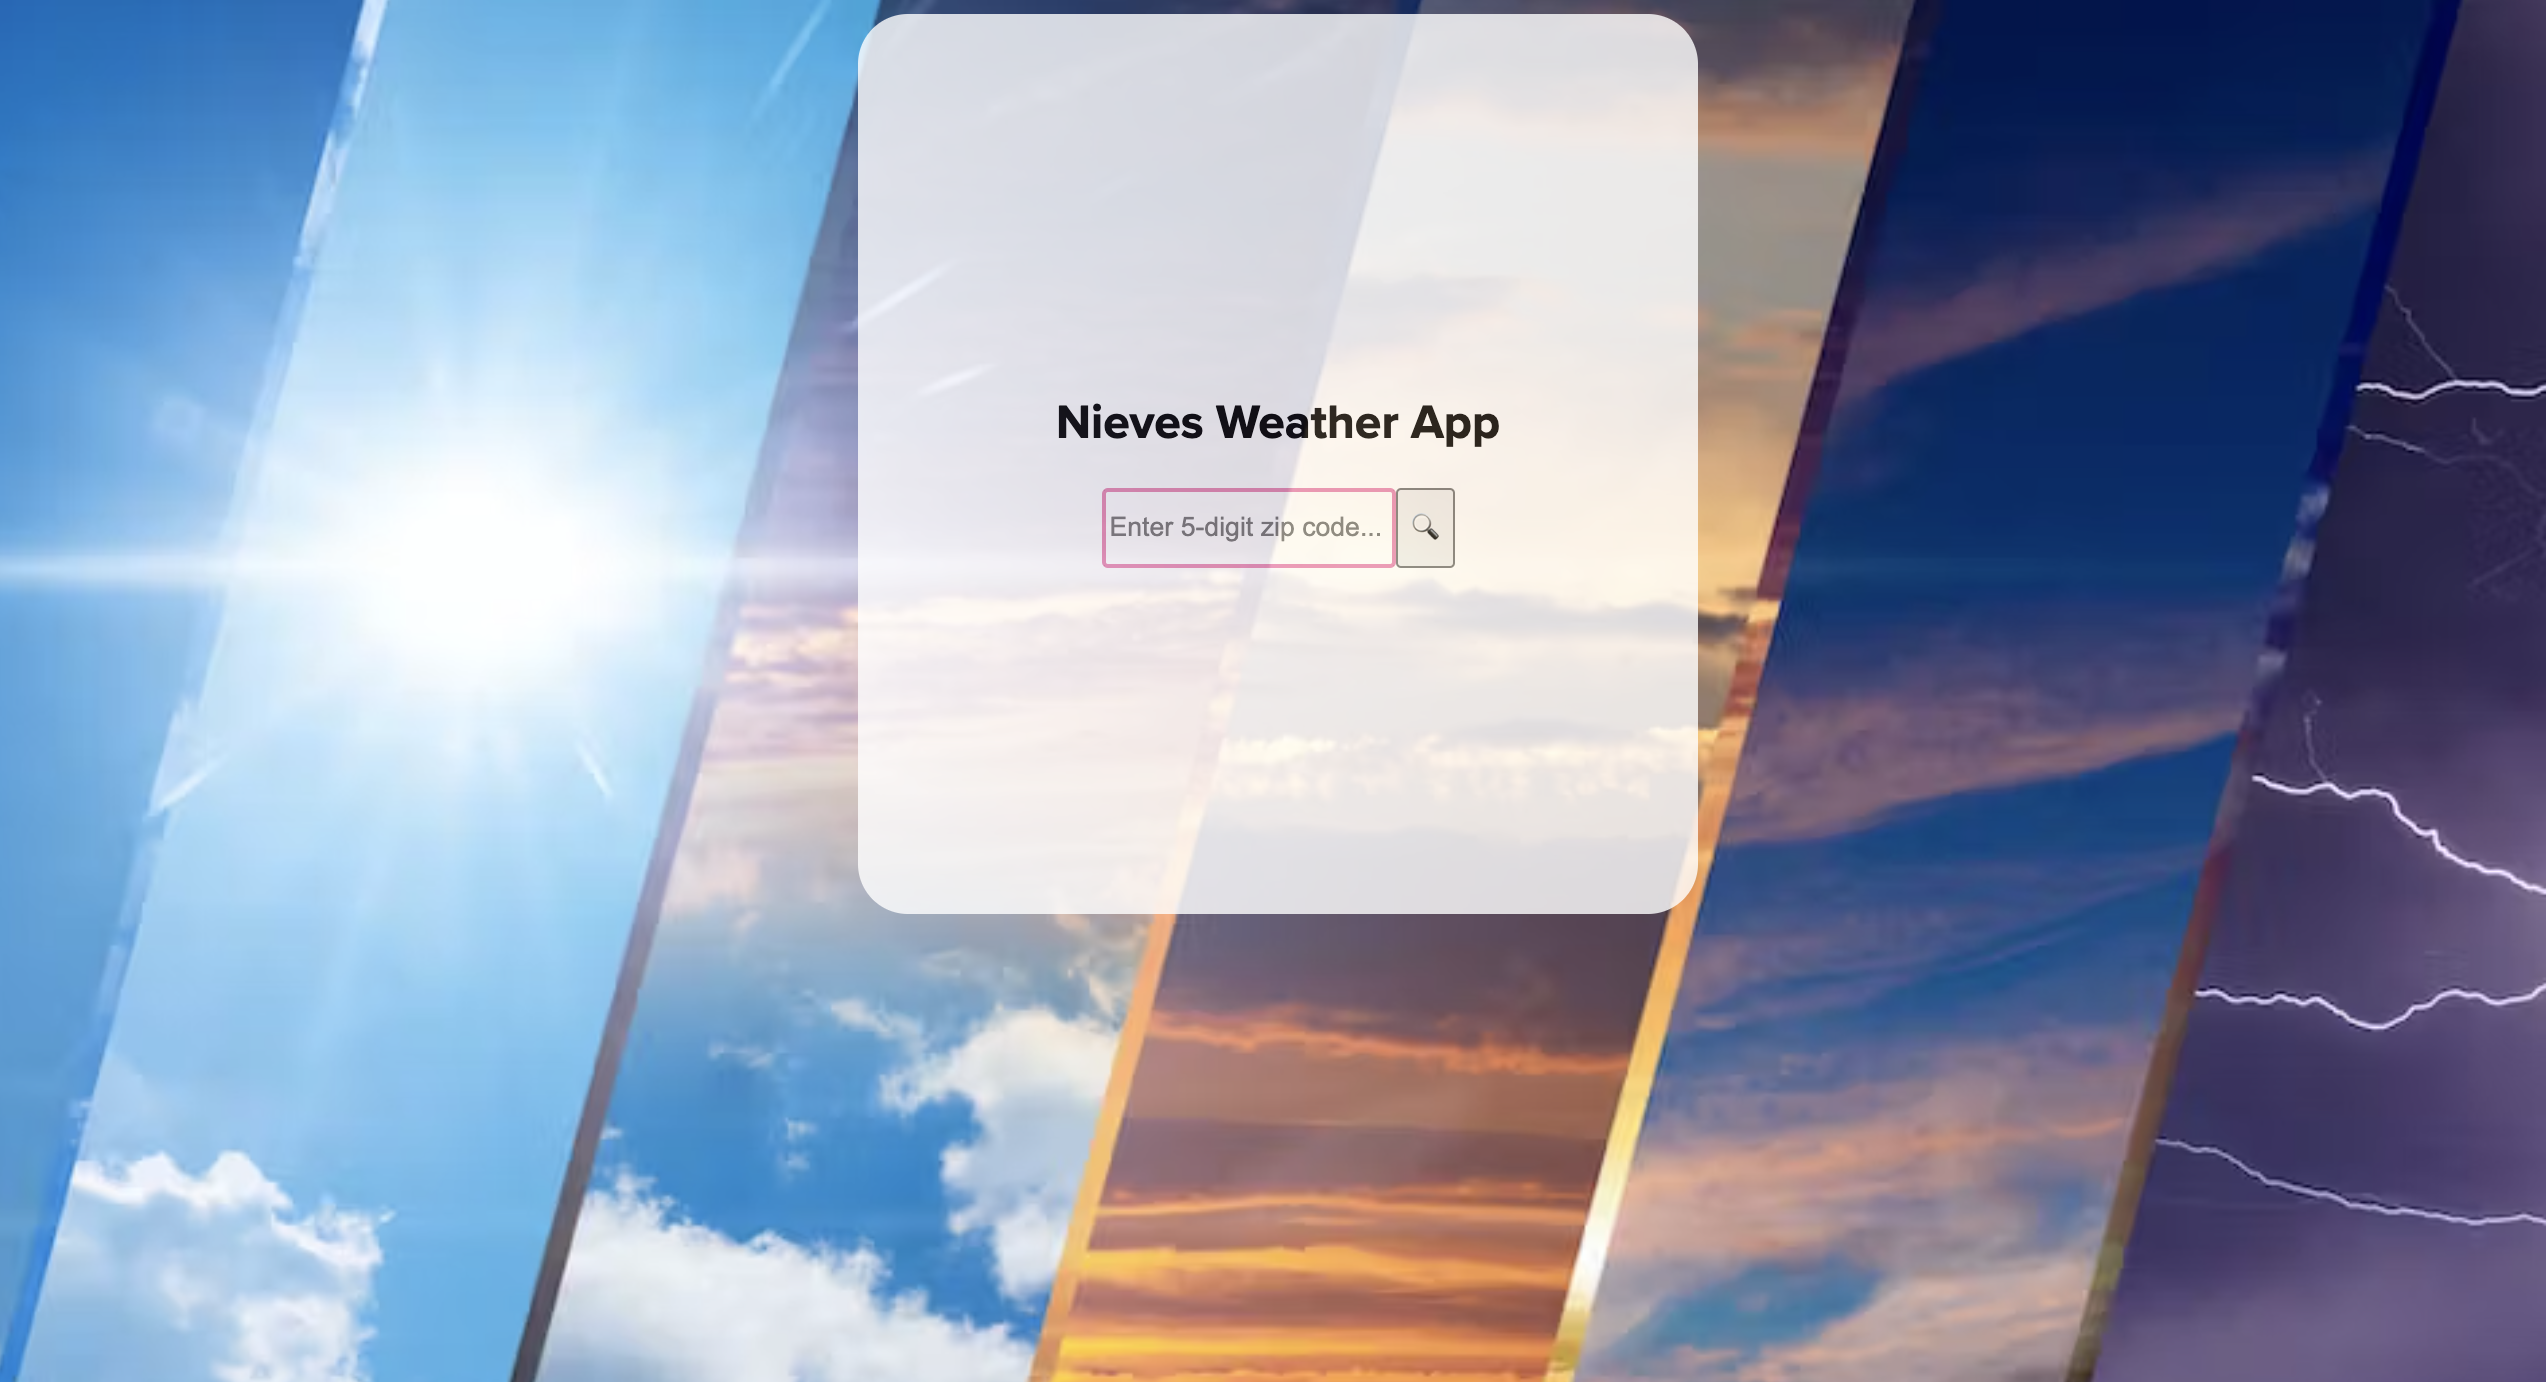
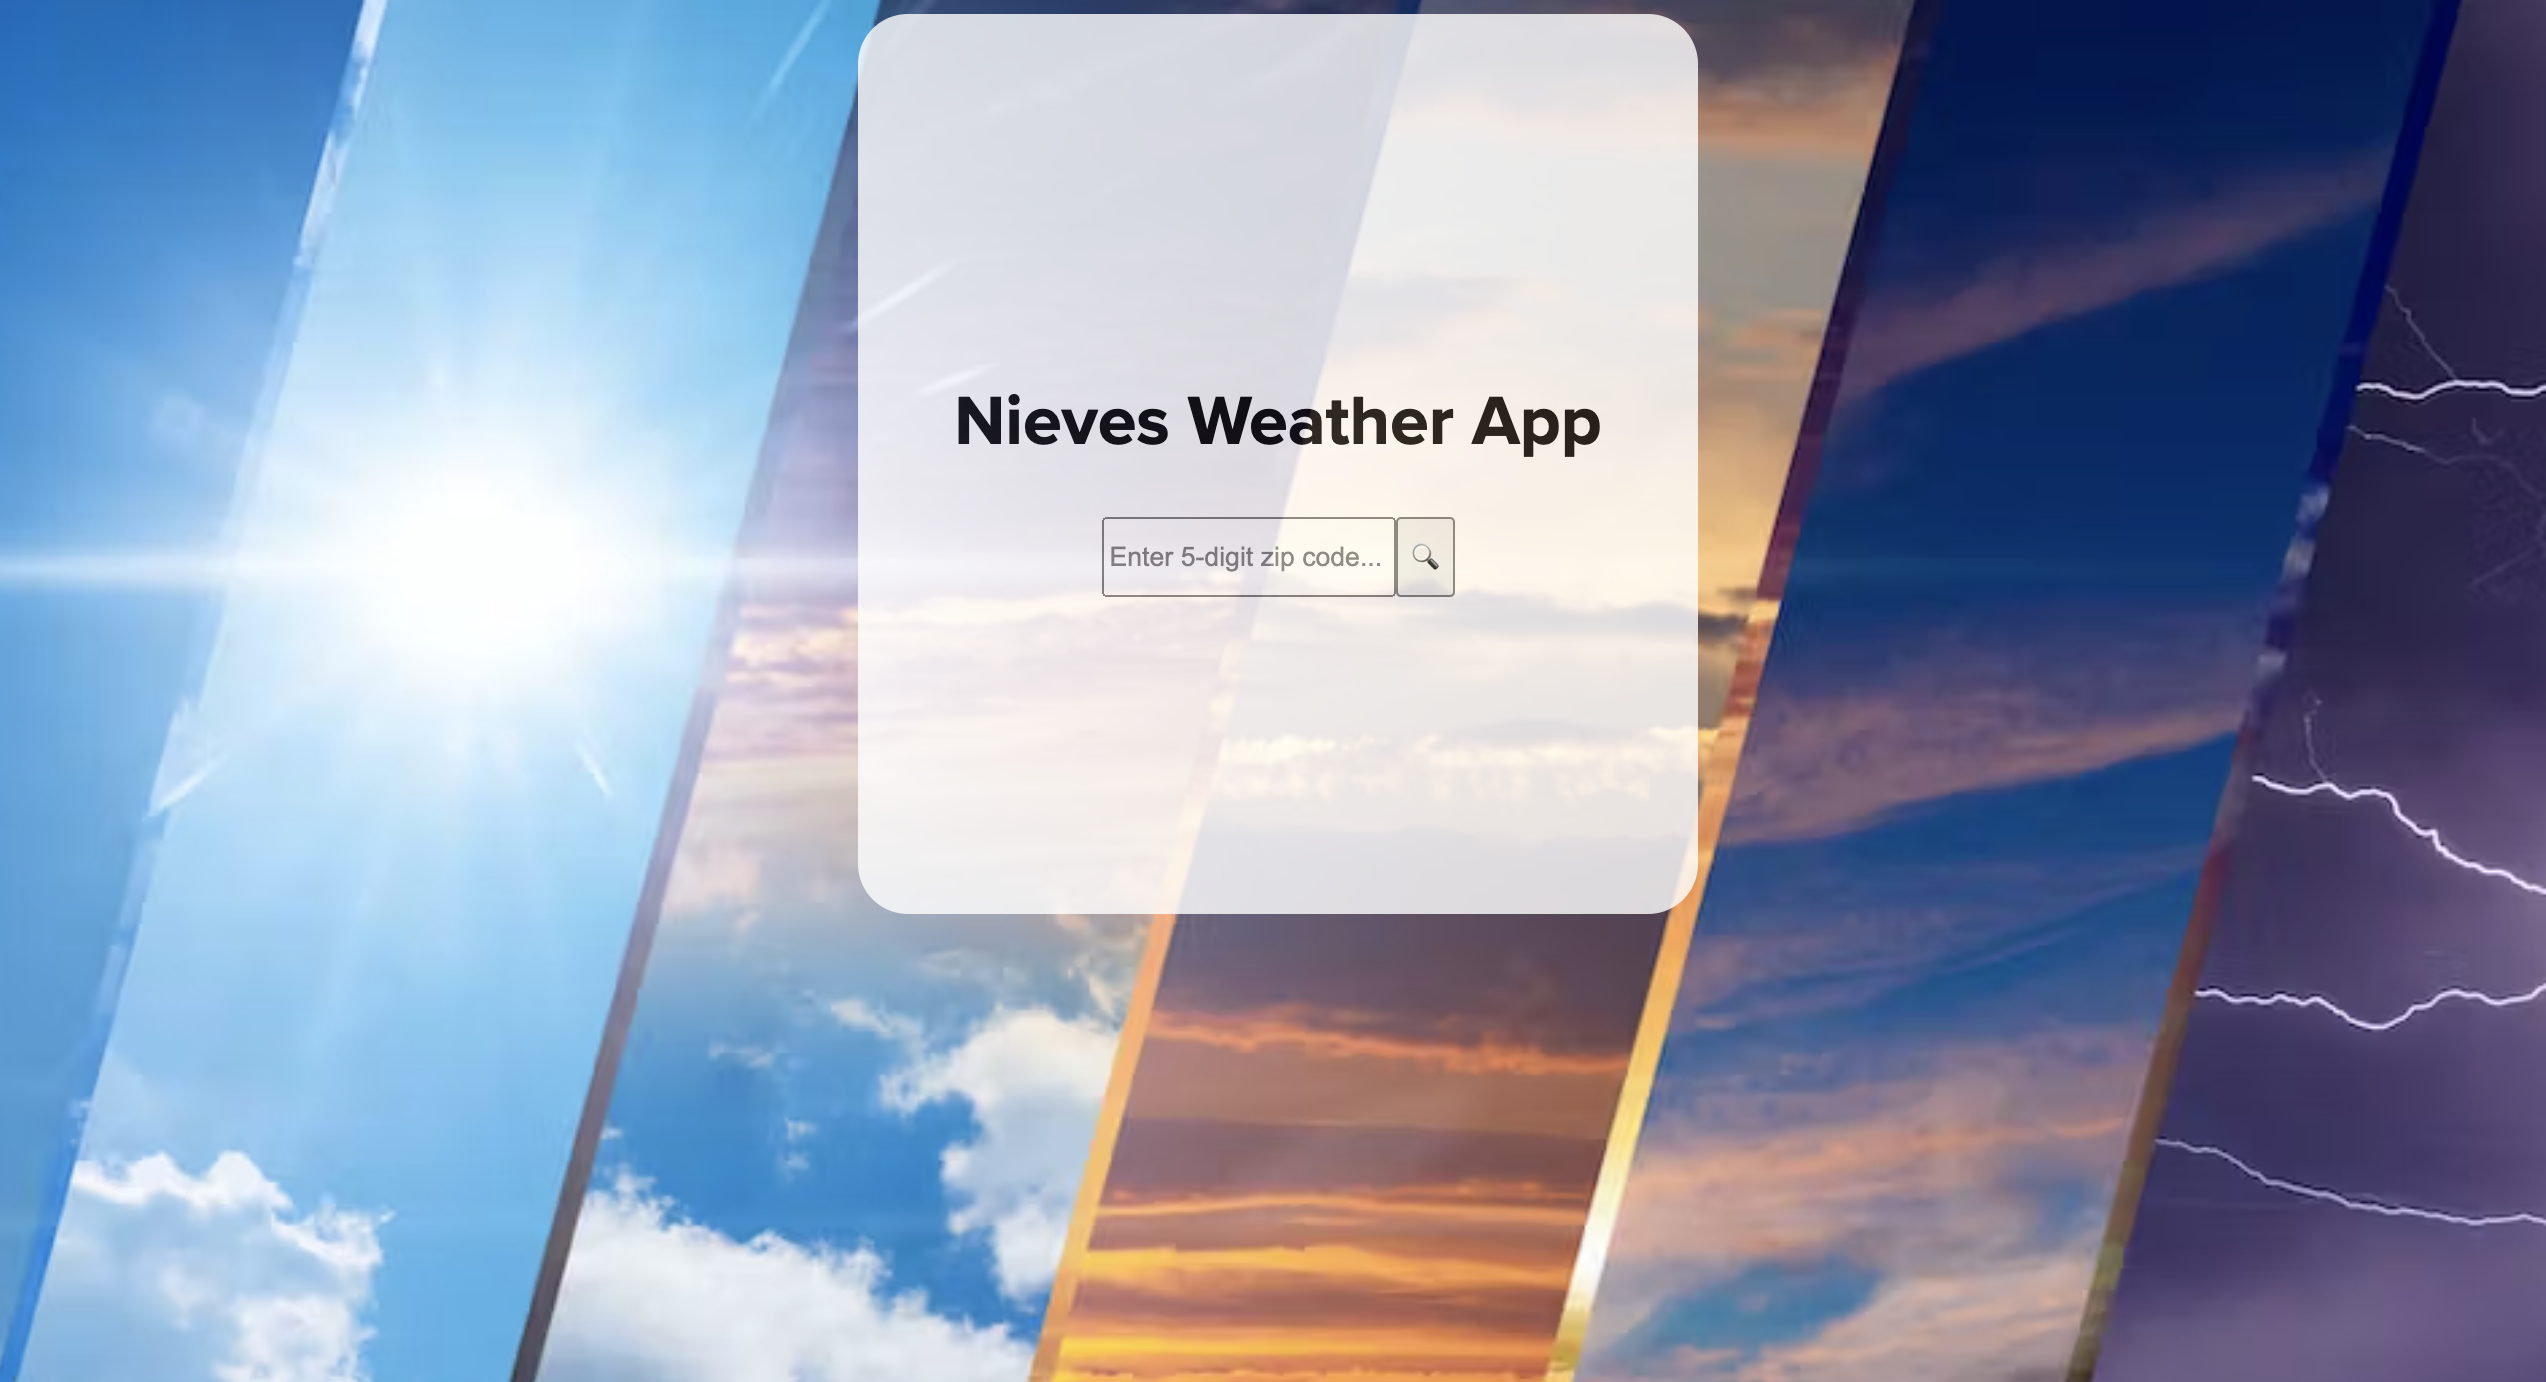
..

Changed region(s): [[0.3723, 0.28, 0.6206, 0.4356]]

diff --git a/src/main/resources/static/styles.css b/src/main/resources/static/styles.css
@@ -23,6 +23,10 @@ background-color: white;
 opacity : 0.8;
 }
 
+.home h1 {
+  font-size: 35px;
+}
+
 .searchbar {
 flex: 0 0 auto;
 display: flex;
@@ -46,6 +50,7 @@ font-size: 16px;
 width: var(--dl-size-size-medium);
 height: var(--dl-size-size-small);
 }
+
 .citydata {
   flex: 0 0 auto;
   width: 100%;

diff --git a/target/classes/static/styles.css b/target/classes/static/styles.css
@@ -23,6 +23,10 @@ background-color: white;
 opacity : 0.8;
 }
 
+.home h1 {
+  font-size: 35px;
+}
+
 .searchbar {
 flex: 0 0 auto;
 display: flex;
@@ -46,6 +50,7 @@ font-size: 16px;
 width: var(--dl-size-size-medium);
 height: var(--dl-size-size-small);
 }
+
 .citydata {
   flex: 0 0 auto;
   width: 100%;
